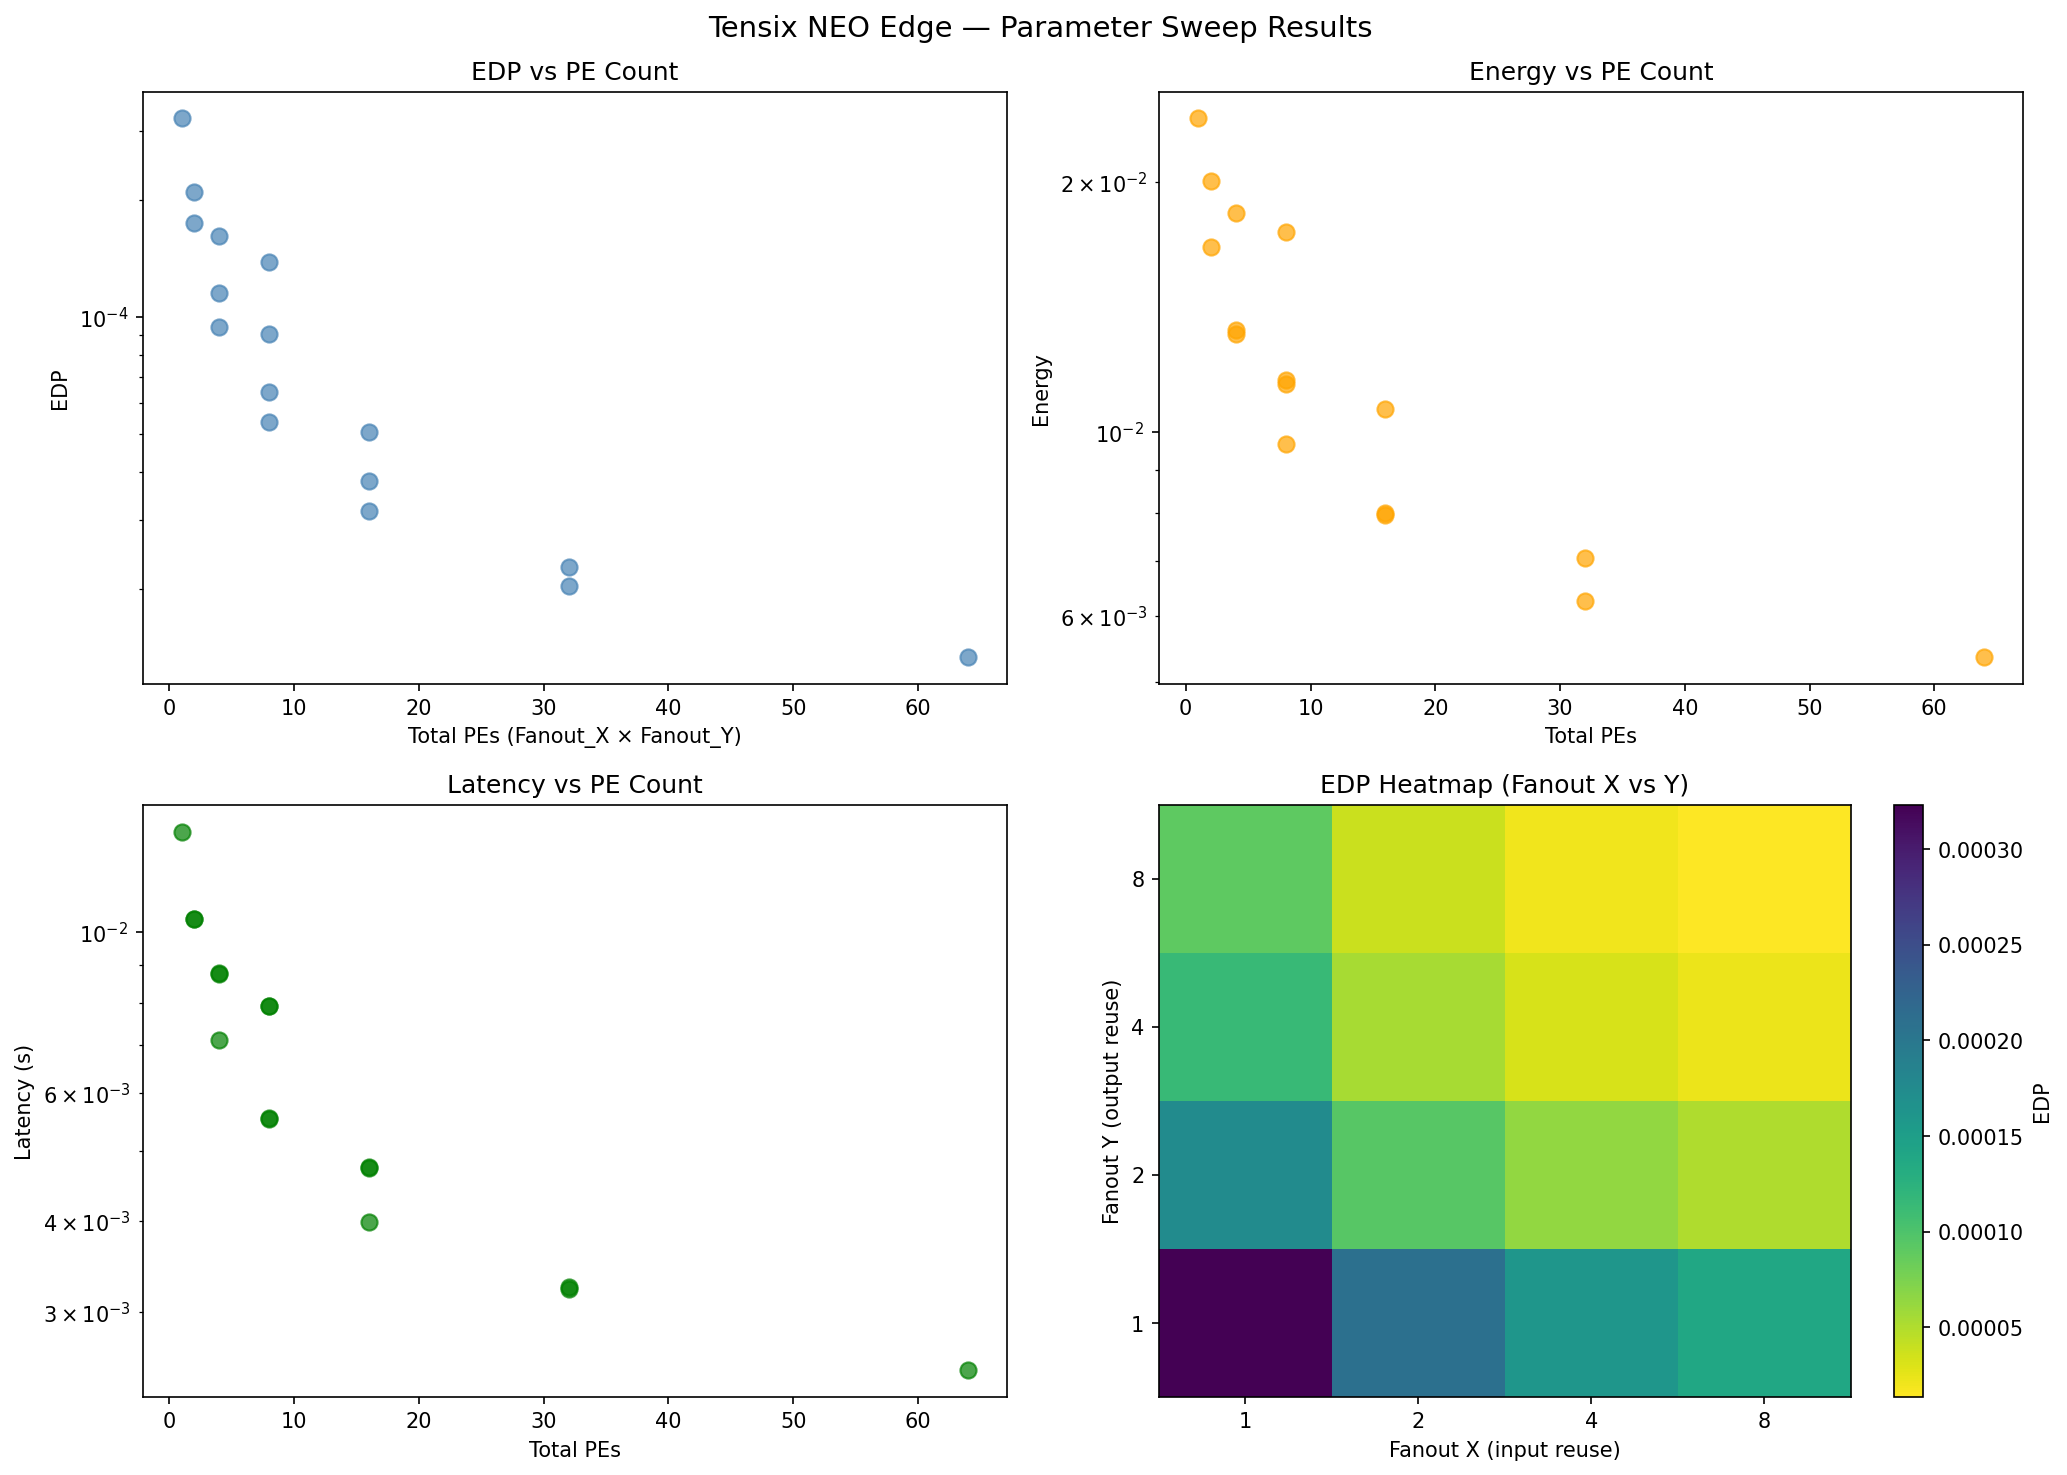
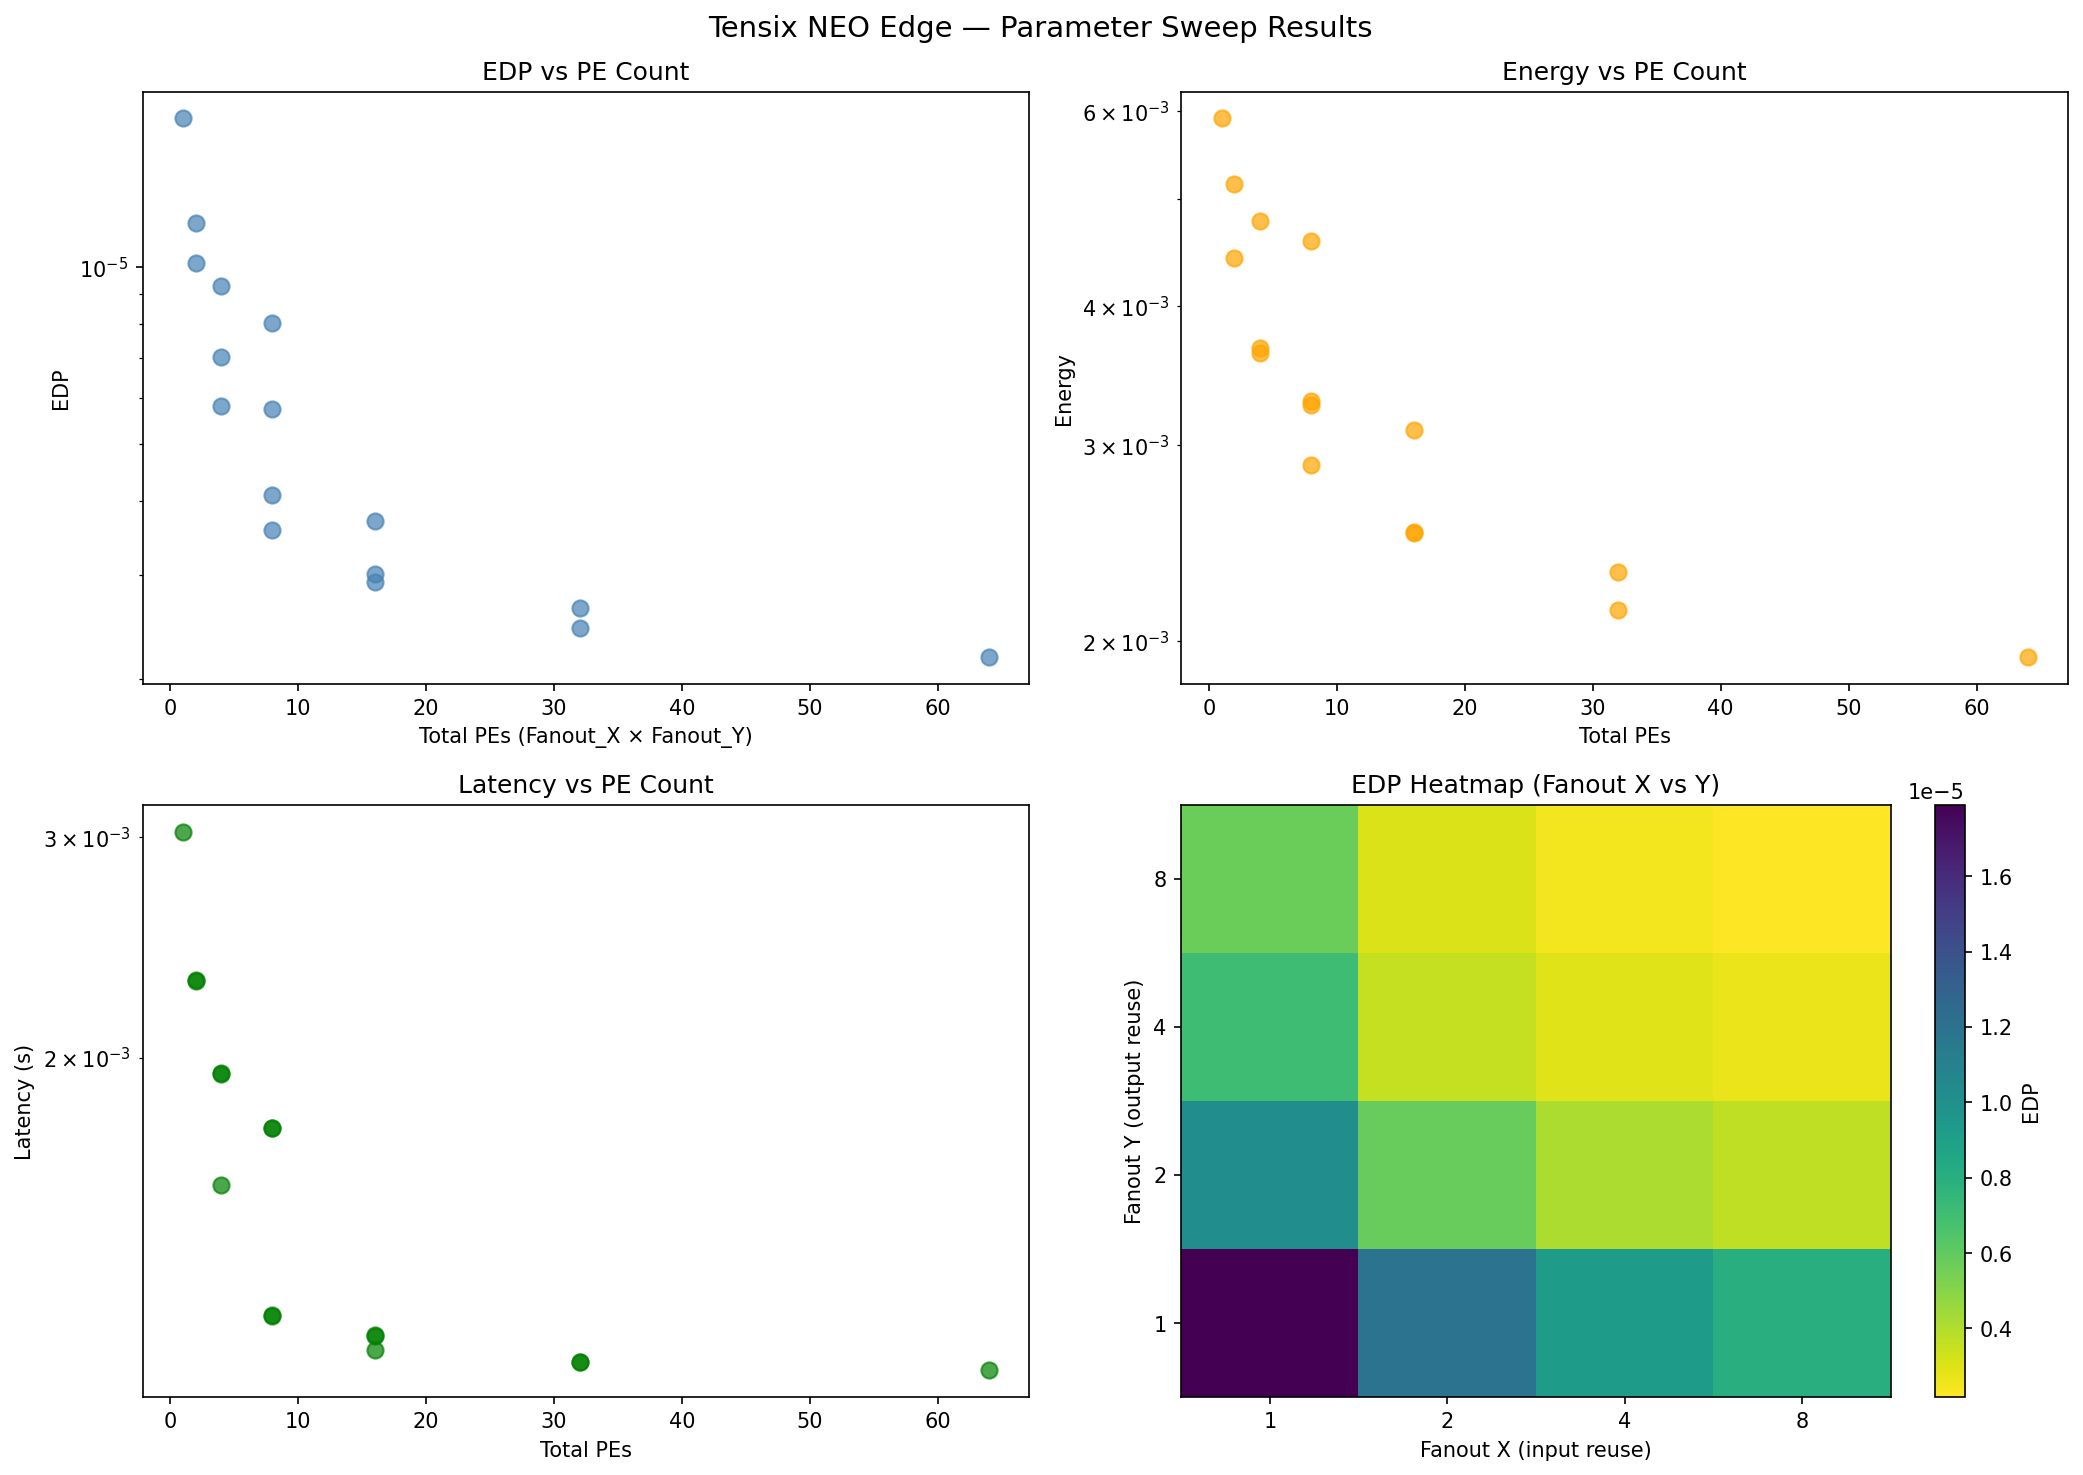
Changed GLB and tinyyolo layers to decrease energy

diff --git a/workspace/sweep_custom_accelerator.py b/workspace/sweep_custom_accelerator.py
@@ -28,7 +28,7 @@ WORKLOAD_FILE = 'workspace/workloads/tinyyolo.yaml'
 
 FANOUT_X_VALUES = [1, 2, 4, 8]       # Input reuse dimension
 FANOUT_Y_VALUES = [1, 2, 4, 8]       # Output reuse dimension
-GLB_KB_VALUES   = [256, 512, 768]     # GlobalBuffer size in KB
+GLB_KB_VALUES   = [256, 512, 768, 1024]     # GlobalBuffer size in KB
 MAC_TPT_VALUES  = [512, 1024, 2048]   # MAC ops/clk throughput
 
 # Set to True to only sweep fanout (faster, good for initial exploration)
@@ -134,7 +134,7 @@ def main():
     # Build sweep configurations
     if FANOUT_ONLY:
         configs = [
-            (fx, fy, 768, 2048)
+            (fx, fy, 1024, 2048)
             for fx, fy in product(FANOUT_X_VALUES, FANOUT_Y_VALUES)
         ]
         print(f'FANOUT-ONLY sweep: {len(configs)} configurations')
